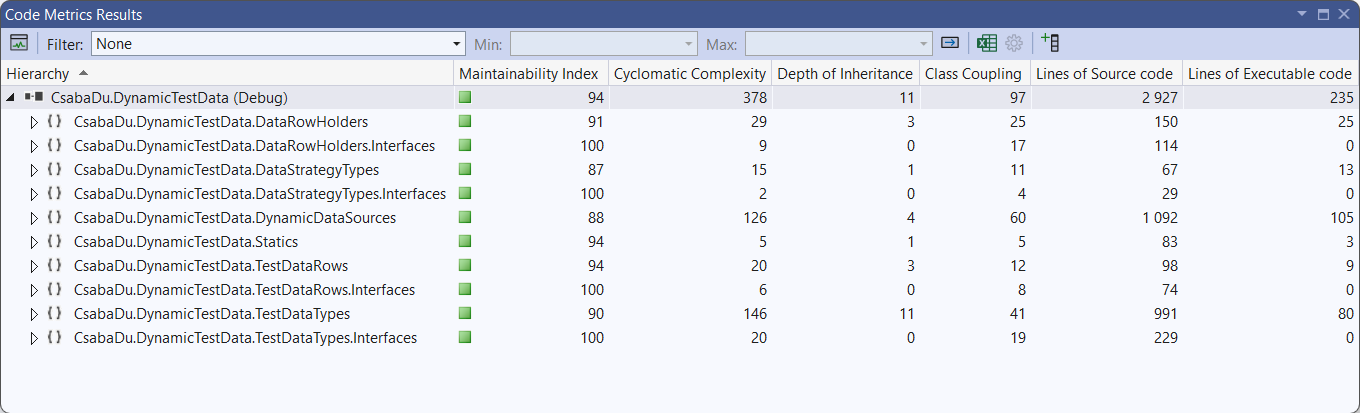
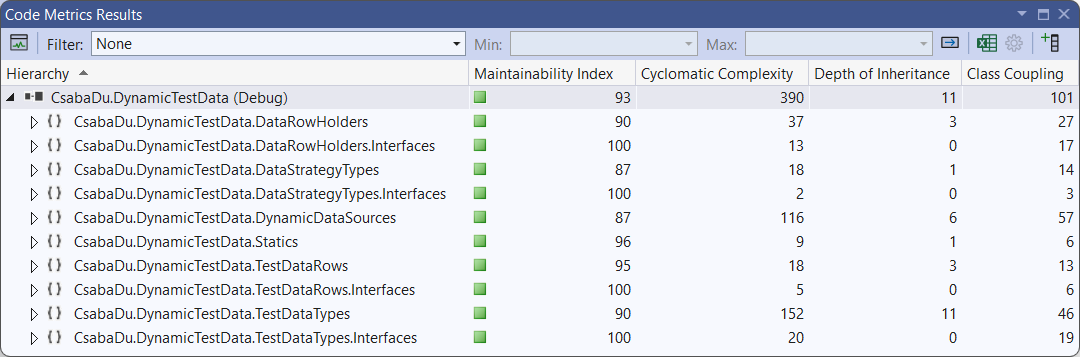
rm mant

diff --git a/README-beta.md b/README-beta.md
@@ -269,6 +269,16 @@ This structure ensures reusability (share `ITestData` across frameworks) and mai
 
 ---
 
+### **Maintainability**
+
+The architecture of this project is designed with a strong emphasis on **maintainability** and **clean separation of concerns**. It is engineered with a focus on **code quality**, **architectural clarity** and **extensibility**. Recent code metrics from Visual Studio reinforce the strength of its internal design:
+
+![Code Metrics](https://raw.githubusercontent.com/CsabaDu/CsabaDu.DynamicTestData/refs/heads/master/_Images/Support/v2_CodeMetricsResults.png)
+
+The high Maintainability Index (scores from **87 to 100**) reflects clean, readable code with low technical debt. Despite deep inheritance hierarchies in certain modules, the framework maintains a strong separation of concerns and manageable complexity. Abstract base classes and interfaces are specifically designed to support MSTest, NUnit, xUnit, and xUnit.v3 seamlessly across modular layers.
+
+---
+
 ## 🔬 Types
 
 ### Statics
